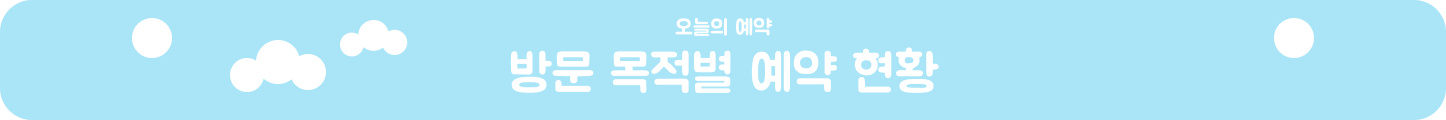
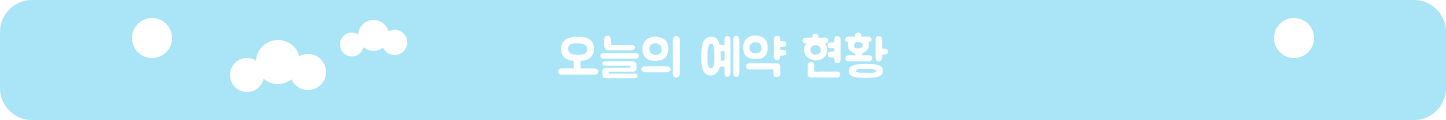
fix :: 예약현황 테이블 페이지 리퍼블리싱

Changed region(s): [[0.3423, 0.15, 0.6535, 0.775]]

diff --git a/apps/gujeuk-admin/src/pages/reservation/ReservationDashboardPage.tsx b/apps/gujeuk-admin/src/pages/reservation/ReservationDashboardPage.tsx
@@ -47,14 +47,10 @@ const ReservationDashboardPage = ({
 
   return (
     <Page $readOnly={readOnly}>
-      {readOnly ? (
-        <HiddenTitle>시설 예약 현황</HiddenTitle>
-      ) : (
-        <BoardHeader>
-          <HiddenTitle>오늘의 예약 · 방문 목적별 예약 현황</HiddenTitle>
-          <BoardPlaque src={titlePlaque} alt='' width={1446} height={120} />
-        </BoardHeader>
-      )}
+      <BoardHeader $readOnly={readOnly}>
+        <HiddenTitle>오늘의 예약 현황</HiddenTitle>
+        <BoardPlaque src={titlePlaque} alt='' width={1446} height={120} />
+      </BoardHeader>
 
       {isTableLoading && <p role='status'>예약 목록을 불러오는 중이에요.</p>}
       {isTableError && (
@@ -99,25 +95,29 @@ const Page = styled.div<{ $readOnly: boolean }>`
     $readOnly ? ReservationColors.gray40 : ColorData.colors.background};
   display: flex;
   flex-direction: column;
+  gap: clamp(0.5rem, 1.6dvh, 1.25rem);
   box-sizing: border-box;
 
   ${({ $readOnly }) =>
     $readOnly
       ? `
     height: 100dvh;
+    padding-inline: clamp(0.75rem, 2.5vw, 3rem);
+    padding-block-end: clamp(0.75rem, 2.5dvh, 2rem);
     overflow: hidden;
   `
       : `
     flex: 1 1 auto;
     min-height: 0;
-    gap: clamp(0.5rem, 1.6dvh, 1.25rem);
   `}
 `;
 
-const BoardHeader = styled.header`
+const BoardHeader = styled.header<{ $readOnly: boolean }>`
   position: relative;
   flex-shrink: 0;
   margin-top: 2.766%;
+  margin-bottom: ${({ $readOnly }) =>
+    $readOnly ? 'clamp(0.375rem, 0.8dvh, 0.5rem)' : 0};
 
   &::before,
   &::after {
@@ -162,14 +162,12 @@ const TableViewport = styled.div<{ $readOnly: boolean }>`
   width: 100%;
   box-sizing: border-box;
   overflow-x: auto;
+  padding: clamp(0.5rem, 1.15vw, 1rem);
+  border-radius: ${({ $readOnly }) => ($readOnly ? '1rem' : '1.75rem')};
+  background: ${ReservationColors.boardFrame};
 
   ${({ $readOnly }) =>
-    !$readOnly &&
-    `
-    padding: clamp(0.5rem, 1.15vw, 1rem);
-    border-radius: 1.75rem;
-    background: ${ReservationColors.boardFrame};
-  `}
+    $readOnly && `border: 1px solid ${ReservationColors.boardGridLine};`}
 `;
 
 const ToastSlot = styled.div`

diff --git a/apps/gujeuk-admin/src/pages/reservation/ReservationTable.tsx b/apps/gujeuk-admin/src/pages/reservation/ReservationTable.tsx
@@ -366,20 +366,26 @@ const TableGrid = styled.div<{ $placeCount: number }>`
       ${TimeData.length},
       minmax(var(--reservation-row-min-height), 1fr)
     );
-  min-width: ${({ $placeCount }) =>
-    `calc(${5.5 + $placeCount * 6}rem + ${$placeCount}px)`};
+  min-width: ${({ $placeCount }) => `${5.5 + $placeCount * 6}rem`};
   min-height: calc(
-    var(--reservation-header-height) + ${TimeData.length} *
-      (var(--reservation-row-min-height) + 1px)
+    var(--reservation-header-height) +
+      ${TimeData.length} * var(--reservation-row-min-height)
   );
-  gap: 1px;
   overflow: hidden;
   position: relative;
   border-radius: 0.3rem;
-  background-color: ${ReservationColors.boardGridLine};
 
   > * {
+    box-sizing: border-box;
     background-color: ${ColorData.colors.background};
+  }
+
+  > :nth-child(n + ${({ $placeCount }) => $placeCount + 2}) {
+    border-block-start: 1px solid ${ReservationColors.boardGridLine};
+  }
+
+  > :not(:nth-child(${({ $placeCount }) => $placeCount + 1}n + 1)) {
+    border-inline-start: 1px solid ${ReservationColors.boardGridLine};
   }
 `;
 
